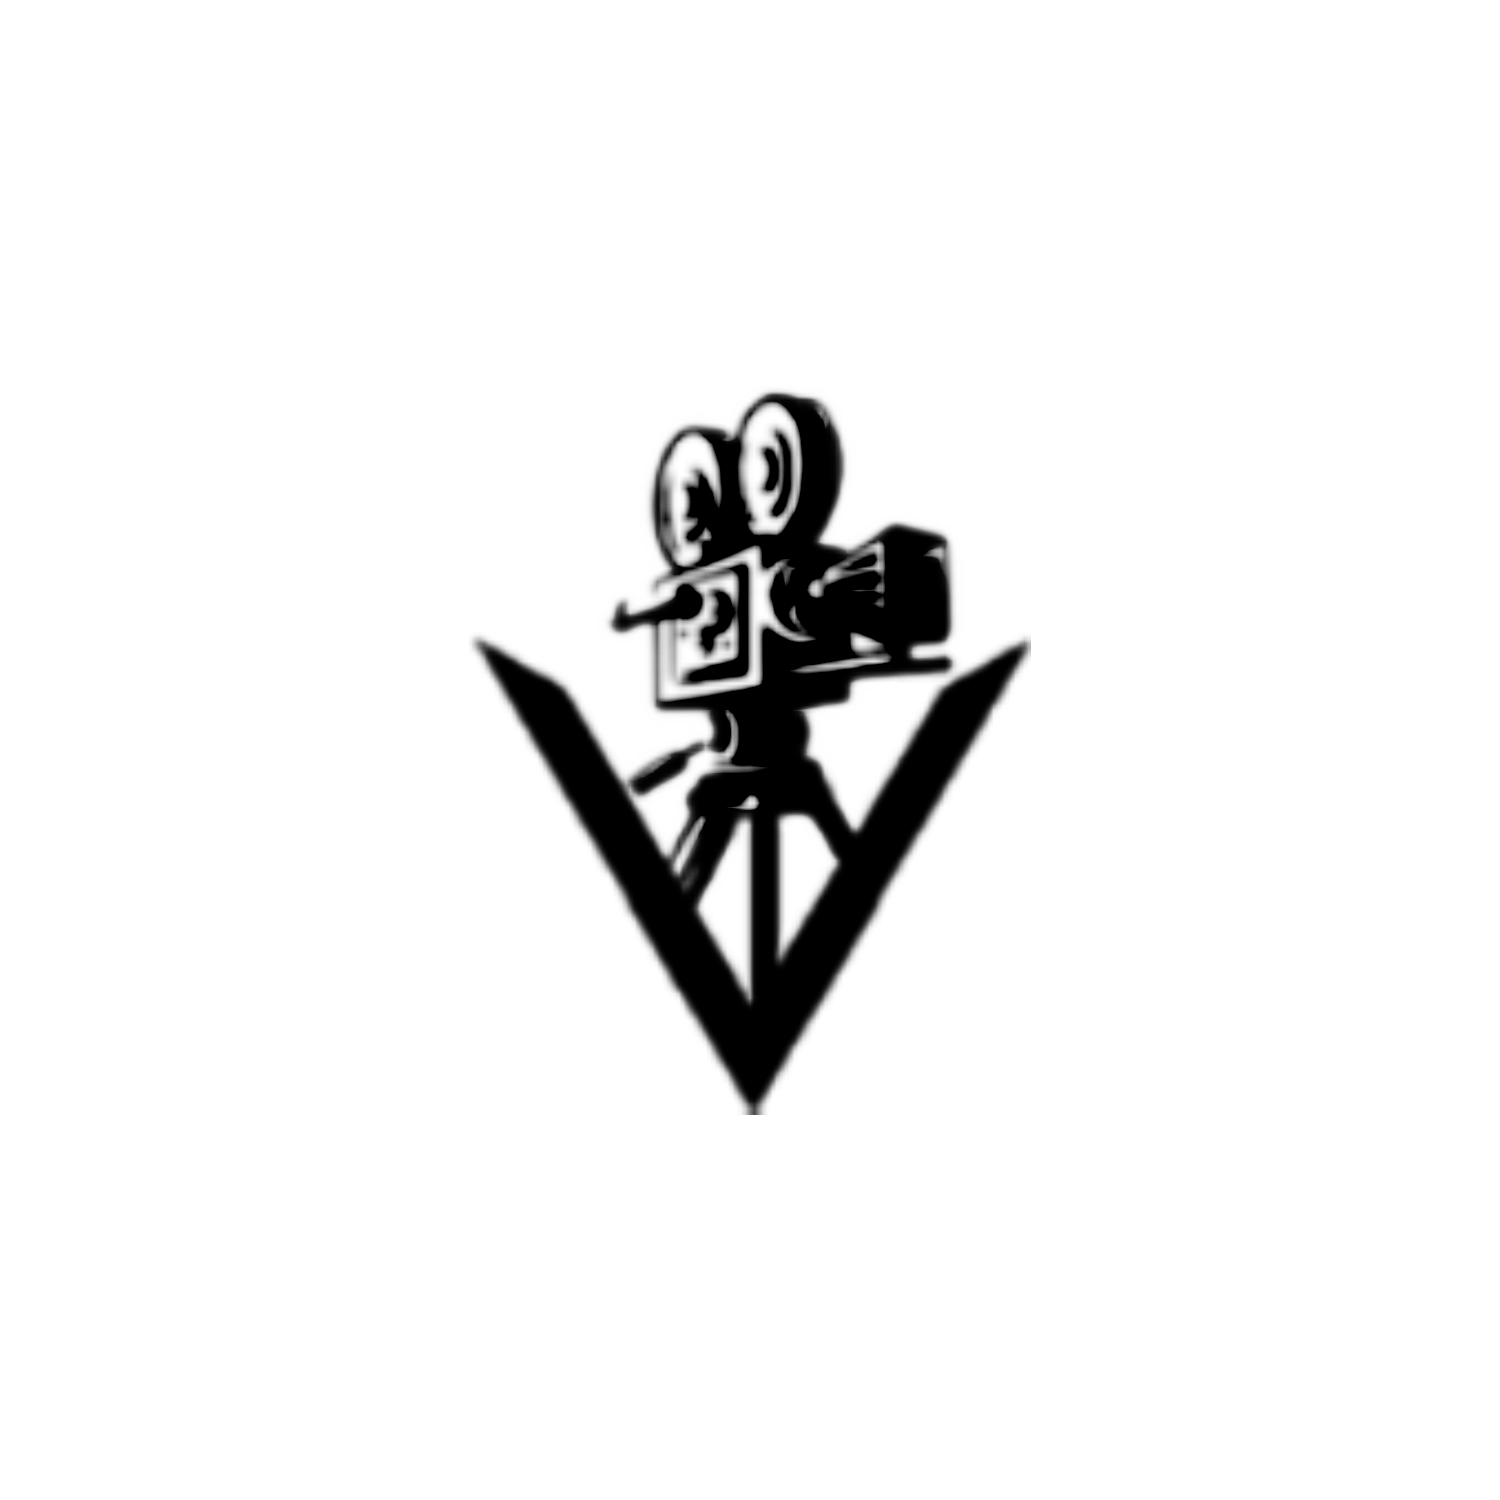
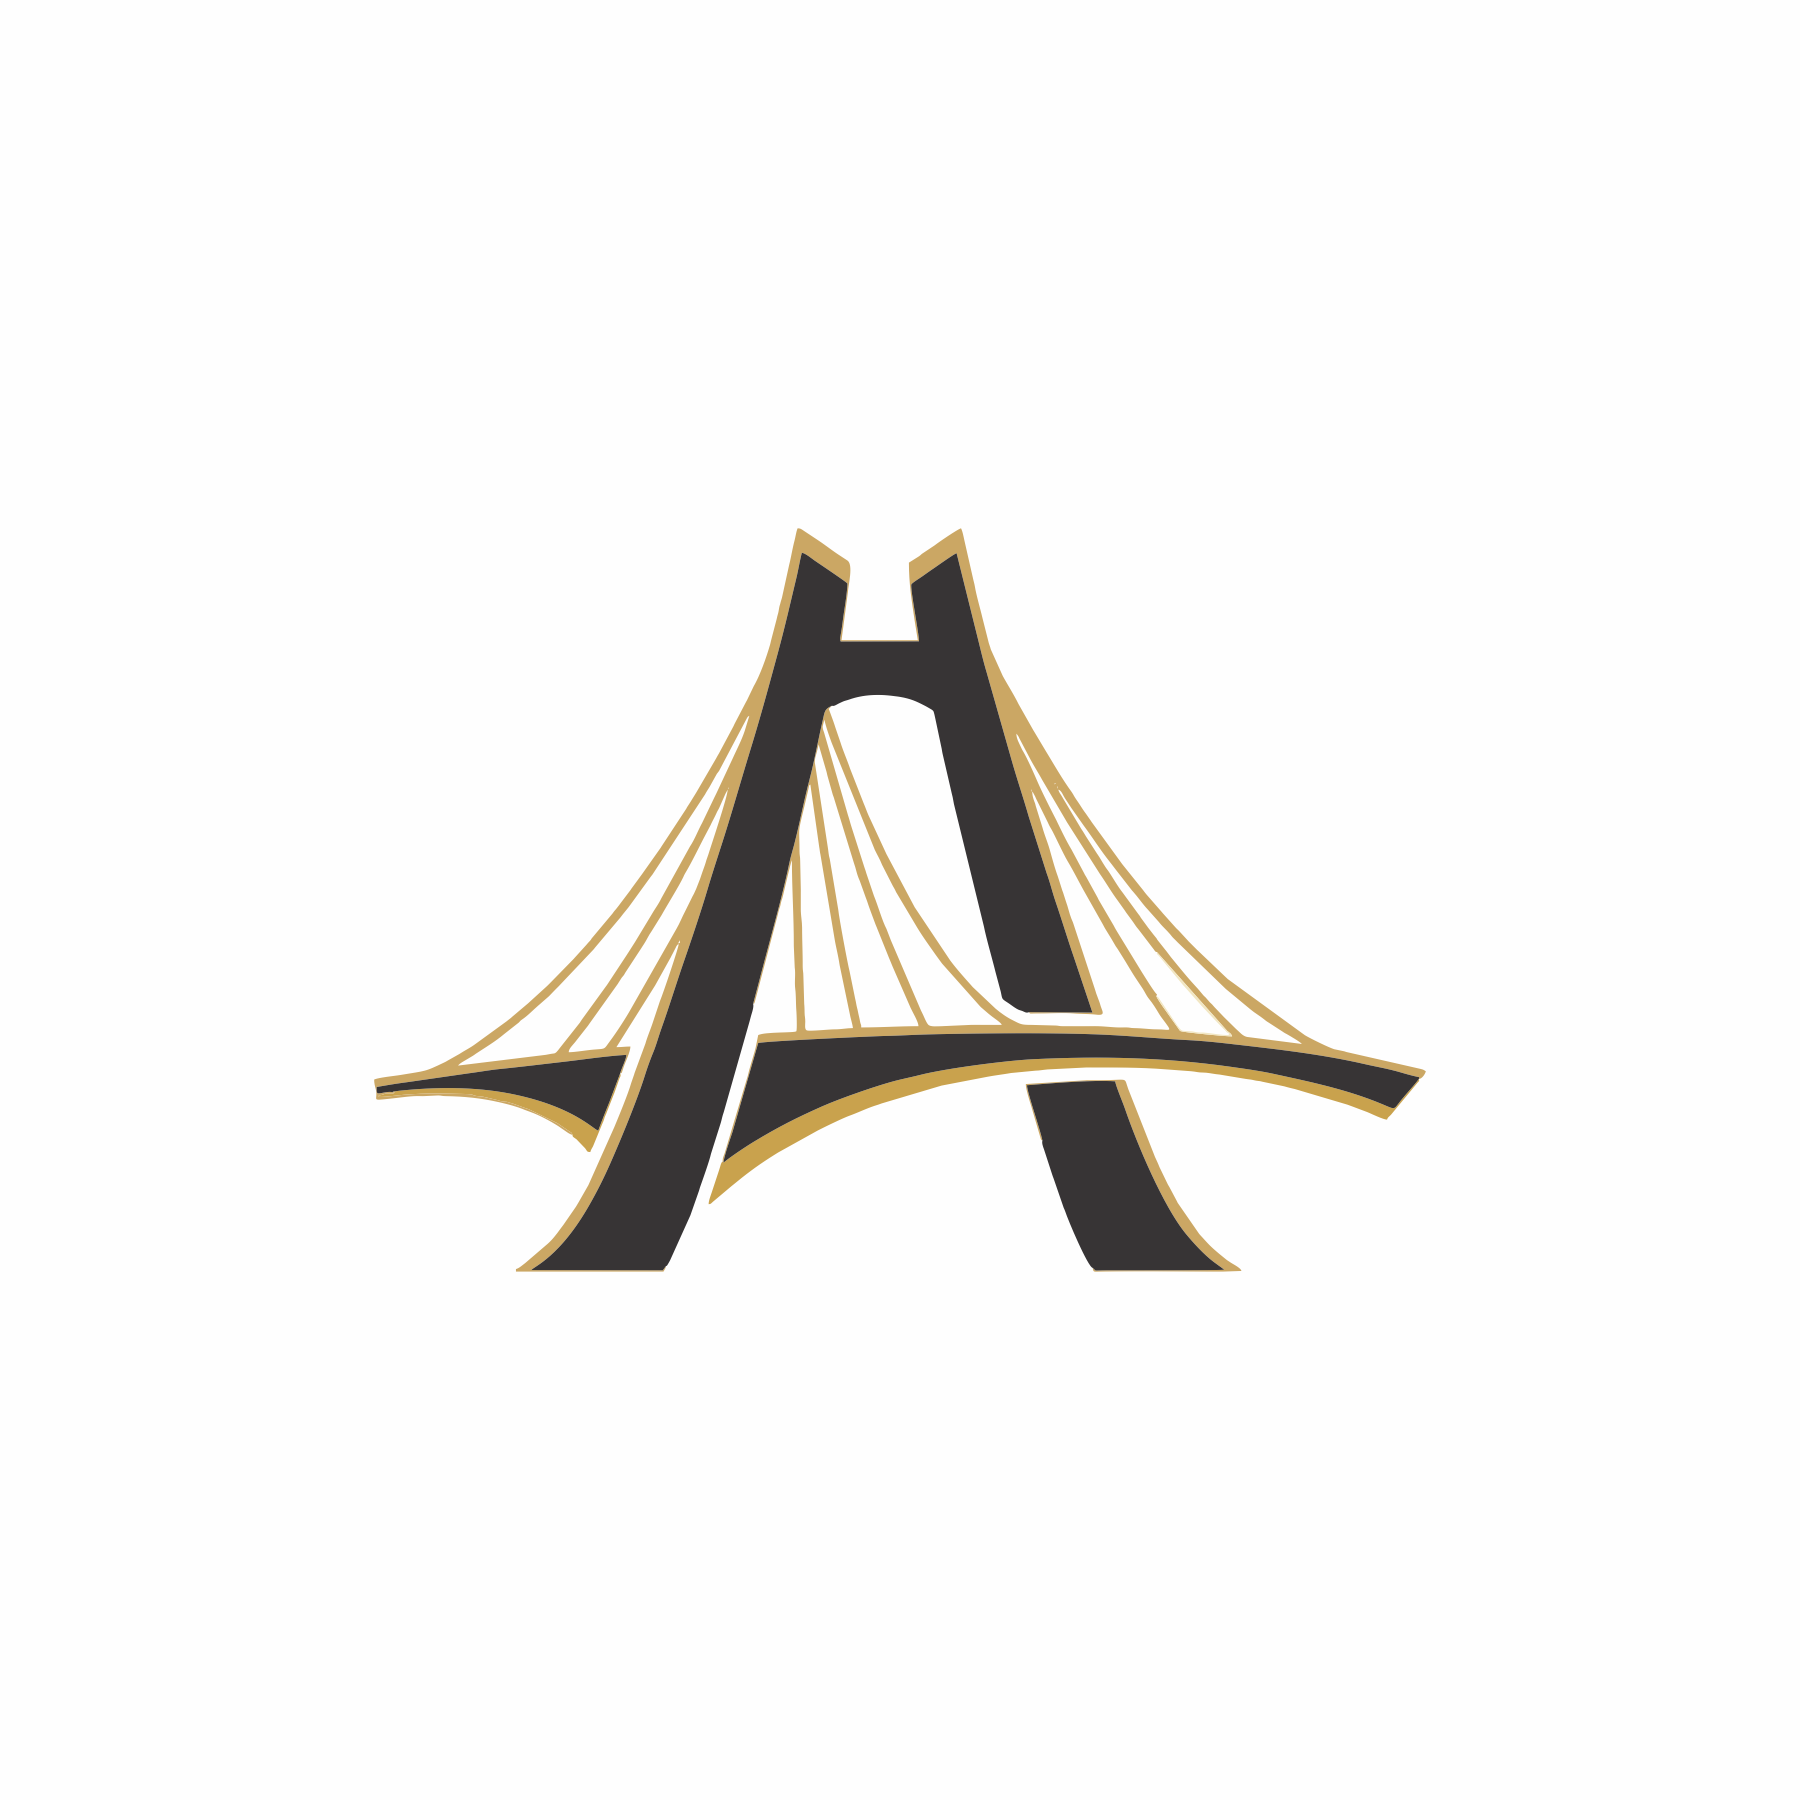
rebuild

Changed region(s): [[0.2147, 0.2453, 0.7973, 0.7667]]

diff --git a/components/common/layout/PageHero.tsx b/components/common/layout/PageHero.tsx
@@ -1,15 +1,32 @@
 "use client"
 
-import { motion, useScroll, useTransform } from "framer-motion"
-import { useRef } from "react"
+import { motion, AnimatePresence, useScroll, useTransform } from "framer-motion"
+import { useEffect, useMemo, useRef, useState } from "react"
+import { ChevronLeft, ChevronRight } from "lucide-react"
+
+interface PageHeroSlide {
+  backgroundImage: string
+  title?: string
+  subtitle?: string
+}
 
 interface PageHeroProps {
   title: string
   subtitle: string
   backgroundImage?: string
+  slides?: PageHeroSlide[]
+  autoPlay?: boolean
+  autoPlaySpeed?: number
 }
 
-export default function PageHero({ title, subtitle, backgroundImage }: PageHeroProps) {
+export default function PageHero({
+  title,
+  subtitle,
+  backgroundImage,
+  slides = [],
+  autoPlay = true,
+  autoPlaySpeed = 6000,
+}: PageHeroProps) {
   const containerRef = useRef(null)
   const { scrollYProgress } = useScroll({
     target: containerRef,
@@ -20,25 +37,72 @@ export default function PageHero({ title, subtitle, backgroundImage }: PageHeroP
   const opacity = useTransform(scrollYProgress, [0, 0.8], [1, 0])
   const scale = useTransform(scrollYProgress, [0, 1], [1, 1.1])
 
+  const heroSlides = useMemo(() => {
+    if (slides.length > 0) {
+      return slides.map((slide) => ({
+        backgroundImage: slide.backgroundImage,
+        title: slide.title ?? title,
+        subtitle: slide.subtitle ?? subtitle,
+      }))
+    }
+
+    return [
+      {
+        backgroundImage: backgroundImage ?? "",
+        title,
+        subtitle,
+      },
+    ]
+  }, [backgroundImage, slides, title, subtitle])
+
+  const [activeSlide, setActiveSlide] = useState(0)
+
+  useEffect(() => {
+    if (!autoPlay || heroSlides.length <= 1) return
+
+    const interval = window.setInterval(() => {
+      setActiveSlide((current) => (current + 1) % heroSlides.length)
+    }, autoPlaySpeed)
+
+    return () => window.clearInterval(interval)
+  }, [autoPlay, autoPlaySpeed, heroSlides.length])
+
+  const currentSlide = heroSlides[activeSlide]
+
+  const handlePrev = () => {
+    setActiveSlide((current) => (current - 1 + heroSlides.length) % heroSlides.length)
+  }
+
+  const handleNext = () => {
+    setActiveSlide((current) => (current + 1) % heroSlides.length)
+  }
+
   return (
     <section ref={containerRef} className="relative h-[60vh] md:h-[75vh] flex items-center justify-center overflow-hidden bg-[#050505]">
       {/* Cinematic Background Layer */}
-      <motion.div style={{ y, scale }} className="absolute inset-0 z-0">
-        {backgroundImage ? (
-          <div 
-            className="w-full h-full bg-cover bg-center bg-no-repeat"
-            style={{ backgroundImage: `url(${backgroundImage})` }}
-          />
-        ) : (
-          <div className="w-full h-full bg-[#050505]" />
-        )}
-        {/* Gradients and Filters */}
-        <div className="absolute inset-0 bg-gradient-to-b from-black/20 via-black/40 to-[#050505]" />
-        <div className="absolute inset-0 bg-black/40 backdrop-blur-[1px]" />
-        
-        {/* Film Grain Texture */}
-        <div className="absolute inset-0 opacity-[0.03] pointer-events-none mix-blend-overlay bg-[url('https://grainy-gradients.vercel.app/noise.svg')]" />
-      </motion.div>
+      <AnimatePresence initial={false} mode="wait">
+        <motion.div
+          key={activeSlide}
+          style={{ y, scale }}
+          initial={{ opacity: 0 }}
+          animate={{ opacity: 1 }}
+          exit={{ opacity: 0 }}
+          transition={{ duration: 1, ease: [0.16, 1, 0.3, 1] }}
+          className="absolute inset-0 z-0"
+        >
+          {currentSlide.backgroundImage ? (
+            <div
+              className="w-full h-full bg-cover bg-center bg-no-repeat"
+              style={{ backgroundImage: `url(${currentSlide.backgroundImage})` }}
+            />
+          ) : (
+            <div className="w-full h-full bg-[#050505]" />
+          )}
+          <div className="absolute inset-0 bg-gradient-to-b from-black/20 via-black/40 to-[#050505]" />
+          <div className="absolute inset-0 bg-black/40 backdrop-blur-[1px]" />
+          <div className="absolute inset-0 opacity-[0.03] pointer-events-none mix-blend-overlay bg-[url('https://grainy-gradients.vercel.app/noise.svg')]" />
+        </motion.div>
+      </AnimatePresence>
 
       {/* Light Leaks */}
       <div className="absolute inset-0 overflow-hidden pointer-events-none">
@@ -55,7 +119,7 @@ export default function PageHero({ title, subtitle, backgroundImage }: PageHeroP
            className="space-y-8"
         >
           <div className="space-y-2">
-            <motion.span 
+            <motion.span
               initial={{ y: 20, opacity: 0 }}
               animate={{ y: 0, opacity: 1 }}
               transition={{ delay: 0.2 }}
@@ -63,16 +127,15 @@ export default function PageHero({ title, subtitle, backgroundImage }: PageHeroP
             >
               ÀGBÀ CINEMA PRESENTS
             </motion.span>
-            
+
             <h1 className="text-6xl md:text-9xl font-black text-white tracking-tighter leading-[0.85] uppercase italic">
-              {title.split(' ').map((word, i) => (
+              {currentSlide.title.split(' ').map((word, i) => (
                 <span key={i} className="relative inline-block mr-4 last:mr-0">
                   {word.toLowerCase().normalize("NFD").replace(/[\u0300-\u036f]/g, "") === 'agba' || word.toLowerCase() === 'cinema' ? (
                     <span className="text-yellow-400 drop-shadow-[0_0_30px_rgba(250,204,21,0.3)]">{word}</span>
                   ) : (
                     <span className="relative">
                       {word}
-                      {/* Outline/Depth version behind */}
                       <span className="absolute inset-0 -z-10 text-transparent stroke-white/20 stroke-1 select-none pointer-events-none transform translate-x-1 translate-y-1">
                         {word}
                       </span>
@@ -84,10 +147,10 @@ export default function PageHero({ title, subtitle, backgroundImage }: PageHeroP
           </div>
 
           <p className="text-lg md:text-2xl text-gray-300 max-w-2xl mx-auto leading-relaxed font-medium italic opacity-80">
-            {subtitle}
+            {currentSlide.subtitle}
           </p>
 
-          <motion.div 
+          <motion.div
             initial={{ scaleX: 0 }}
             animate={{ scaleX: 1 }}
             transition={{ delay: 0.8, duration: 1, ease: "circOut" }}
@@ -95,9 +158,40 @@ export default function PageHero({ title, subtitle, backgroundImage }: PageHeroP
           />
         </motion.div>
       </div>
-      
-      {/* Floating UI Elements */}
-      <div className="absolute bottom-12 left-1/2 -translate-x-1/2 flex flex-col items-center gap-4 text-[10px] font-black uppercase tracking-[0.4em] text-white/20">
+
+      <div className="absolute bottom-8 left-1/2 z-20 -translate-x-1/2 flex items-center gap-3">
+        <button
+          type="button"
+          onClick={handlePrev}
+          className="flex items-center justify-center w-10 h-10 rounded-full bg-black/50 text-white hover:bg-black/70 transition"
+          aria-label="Previous slide"
+        >
+          <ChevronLeft className="w-5 h-5" />
+        </button>
+
+        <div className="flex items-center gap-2">
+          {heroSlides.map((_, index) => (
+            <button
+              key={index}
+              type="button"
+              onClick={() => setActiveSlide(index)}
+              className={`w-3 h-3 rounded-full transition ${index === activeSlide ? "bg-yellow-400" : "bg-white/30 hover:bg-white/60"}`}
+              aria-label={`Go to slide ${index + 1}`}
+            />
+          ))}
+        </div>
+
+        <button
+          type="button"
+          onClick={handleNext}
+          className="flex items-center justify-center w-10 h-10 rounded-full bg-black/50 text-white hover:bg-black/70 transition"
+          aria-label="Next slide"
+        >
+          <ChevronRight className="w-5 h-5" />
+        </button>
+      </div>
+
+      <div className="absolute bottom-24 left-1/2 -translate-x-1/2 flex flex-col items-center gap-4 text-[10px] font-black uppercase tracking-[0.4em] text-white/20">
          <span className="animate-bounce">Scroll to Explore</span>
          <div className="w-px h-12 bg-gradient-to-b from-white/20 to-transparent" />
       </div>

diff --git a/components/home/Hero.tsx b/components/home/Hero.tsx
@@ -4,7 +4,7 @@ import { Button } from "@/components/ui/button"
 import Link from "next/link"
 import { Download, ArrowRight, Zap, Play } from "lucide-react"
 import { motion, AnimatePresence } from "framer-motion"
-import { useState } from "react"
+import { useEffect, useState } from "react"
 
 import Image from "next/image"
 
@@ -92,20 +92,45 @@ function GuideModal({ open, onClose }: { open: boolean; onClose: () => void }) {
 
 export default function Hero() {
   const [guideOpen, setGuideOpen] = useState(false)
+  const heroSlides = [
+    "/1778420867714.png",
+    "/1778429626442.png",
+  ]
+  const [activeSlide, setActiveSlide] = useState(0)
+
+  useEffect(() => {
+    const interval = window.setInterval(() => {
+      setActiveSlide((current) => (current + 1) % heroSlides.length)
+    }, 5000)
+
+    return () => window.clearInterval(interval)
+  }, [heroSlides.length])
 
   return (
     <>
       <section className="relative min-h-screen flex items-center justify-center bg-[#050505] text-white overflow-hidden">
         {/* Background Atmosphere */}
         <div className="absolute inset-0 z-0">
-          <Image
-            src="/cinematic-video-setup.png"
-            alt="Cinematic Video Setup"
-            fill
-            quality={60}
-            priority
-            className="object-cover object-center grayscale-[40%] scale-105"
-          />
+          <AnimatePresence initial={false} mode="wait">
+            <motion.div
+              key={activeSlide}
+              initial={{ opacity: 0 }}
+              animate={{ opacity: 1 }}
+              exit={{ opacity: 0 }}
+              transition={{ duration: 1.2, ease: [0.16, 1, 0.3, 1] }}
+              className="absolute inset-0"
+            >
+              <Image
+                src={heroSlides[activeSlide]}
+                alt="Cinematic Hero Slide"
+                fill
+                quality={60}
+                priority
+                className="object-cover object-center grayscale-[40%] scale-105"
+              />
+            </motion.div>
+          </AnimatePresence>
+
           <div className="absolute inset-0 bg-gradient-to-b from-black/60 via-black/40 to-[#050505]" />
           <div className="absolute inset-0 bg-black/40 backdrop-blur-[1px]" />
           

diff --git a/components/common/layout/Footer.tsx b/components/common/layout/Footer.tsx
@@ -1,7 +1,8 @@
 "use client"
 
 import { usePathname } from "next/navigation"
-import { Camera, Mail, Phone, MapPin, Facebook, Instagram, Twitter, Youtube, Linkedin } from "lucide-react"
+import Image from "next/image"
+import { Mail, Phone, MapPin, Facebook, Instagram, Twitter, Youtube, Linkedin } from "lucide-react"
 
 export default function Footer() {
   const pathname = usePathname()
@@ -16,9 +17,14 @@ export default function Footer() {
         <div className="grid grid-cols-1 md:grid-cols-4 gap-8">
           {/* Company Info */}
           <div className="col-span-1 md:col-span-2">
-            <a href="/" className="flex items-center space-x-2 mb-4">
-              <Camera className="h-8 w-8 text-[#FFD700]" />
-              <span className="text-2xl font-bold">ÀGBÀ CINEMA</span>
+            <a href="/" className="inline-block mb-4">
+              <Image 
+                src="/white long logo.png" 
+                alt="ÀGBÀ CINEMA Logo" 
+                width={240}
+                height={80}
+                priority
+              />
             </a>
             <p className="text-gray-300 mb-6 max-w-md">
               Professional video production services for brands, events, and storytelling. Creating cinematic

diff --git a/app/about/page.tsx b/app/about/page.tsx
@@ -43,6 +43,8 @@ const team = [
 
 export default function AboutPage() {
   const images = [
+    "/1778420867714.png",
+    "/1778429626442.png",
     "/IMG-20240515-WA0028.jpg",
     "/Screenshot (11).png",
     "/Screenshot (191).png",
@@ -54,6 +56,10 @@ export default function AboutPage() {
     "/gp pro.jpg",
     "/creative and legal crises.jpg",
   ];
+
+  const heroSlides = images.slice(0, 6).map((src) => ({
+    backgroundImage: src,
+  }))
 
   const sliderSettings: any = {
     dots: false,

diff --git a/components/common/layout/Header.tsx b/components/common/layout/Header.tsx
@@ -37,17 +37,17 @@ export default function Header() {
   ]
 
   return (
-    <header className="bg-white/95 backdrop-blur-xl sticky top-0 z-[9999] border-b border-gray-100 pointer-events-auto">
+    <header className="bg-transparent backdrop-blur-xl sticky top-0 z-[9999] border-b border-gray-100 pointer-events-auto">
       <nav className="mx-auto max-w-7xl px-4 sm:px-6 lg:px-8 relative z-[9999]">
         <div className="flex justify-between items-center h-20">
           {/* Logo */}
           <a href="/" className="flex items-center group relative">
             <div className="absolute -inset-2 bg-yellow-400/0 group-hover:bg-yellow-400/5 rounded-xl transition-all duration-500" />
             <Image
-              src="/agba  white.jpg"
+              src="/white short logo.png"
               alt="ÀGBÀ CINEMA Logo"
               width={140}
-              height={45}
+              height={25}
               className="relative transition-transform duration-500 group-hover:scale-[1.02]"
               priority
             />

diff --git a/global.d.ts b/global.d.ts
@@ -1,0 +1,5 @@
+declare module "*.css";
+declare module "*.scss";
+declare module "*.sass";
+declare module "slick-carousel/slick/slick.css";
+declare module "slick-carousel/slick/slick-theme.css";